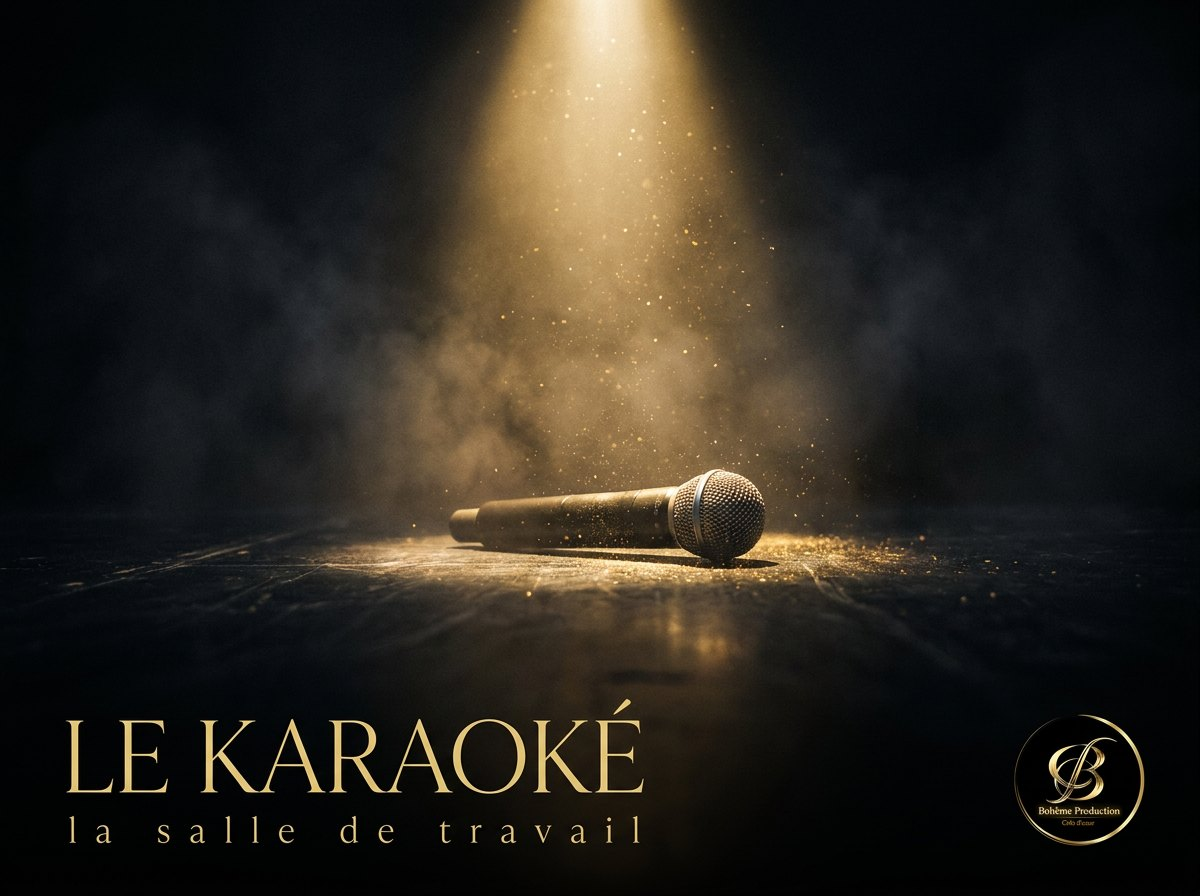
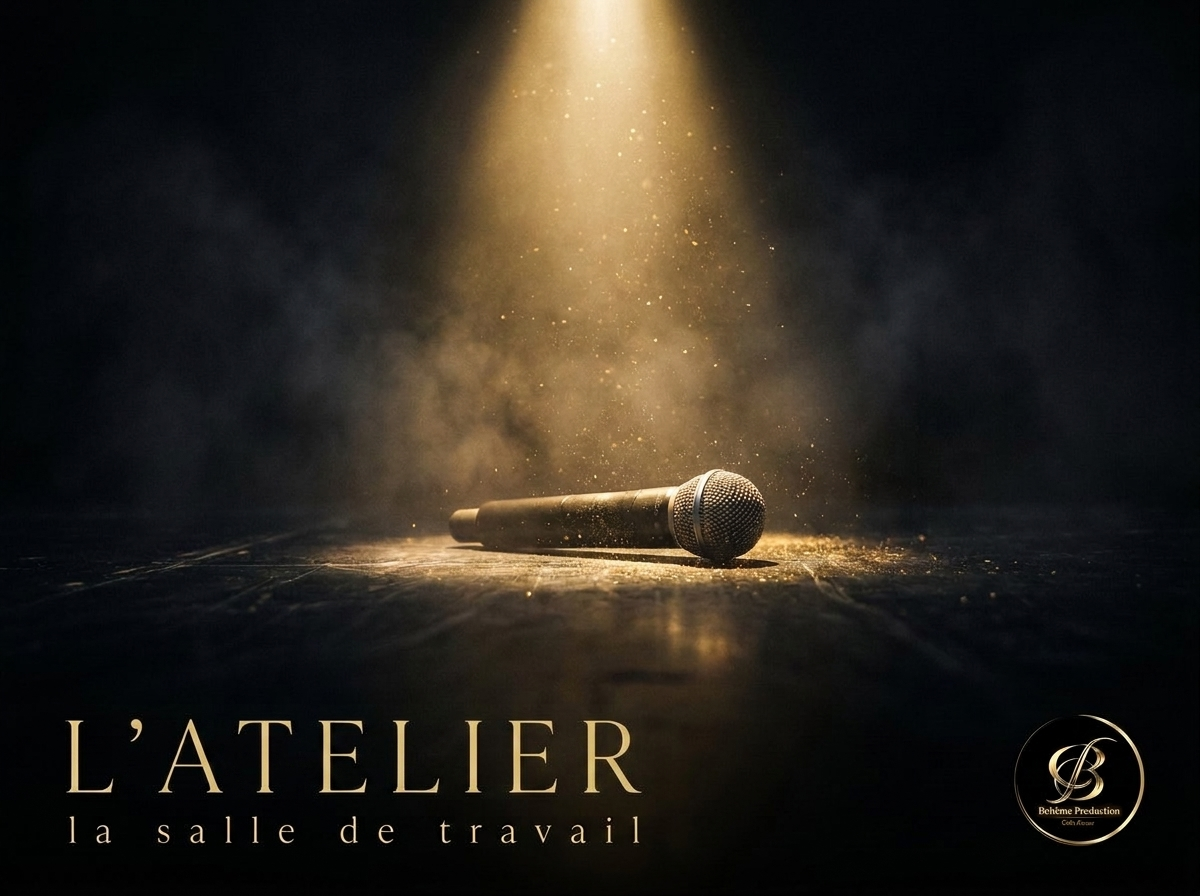
L'affiche de l'atelier porte enfin « L'ATELIER · la salle de travail »
Refaite dans Flow a partir de l'ancienne : seul le titre change, le reste est identique.
⚠ Nano Banana a redessine le petit medaillon en « Beheme Predaction » au lieu de
« Boheme Production ». Illisible sur un telephone, mais faux : le prompt corrige, avec
la consigne qui interdit de re-lettrer le medaillon, est dans
site-images/_a-deposer/LES PROMPTS.

Ce dossier _a-deposer sert desormais d'echange : je donne les prompts, Mickael genere
dans Flow lui-meme et depose l'image sous le nom exact indique. Ca evite le pilotage du
navigateur, qui coute tres cher en jetons.

Changed region(s): [[0.0925, 0.7812, 0.5242, 0.9062], [0.555, 0.5312, 0.6475, 0.5938], [0.8633, 0.8438, 0.925, 0.9062]]

diff --git a/5 - Site web/site-images/_a-deposer/LES PROMPTS — dépose les images ici.md b/5 - Site web/site-images/_a-deposer/LES PROMPTS — dépose les images ici.md
@@ -1,0 +1,84 @@
+# LES IMAGES DU SITE — dépose-les dans ce dossier
+
+**Comment on travaille, à partir de maintenant :**
+
+1. Je te donne **un prompt à la fois**, prêt à coller dans Flow.
+2. Tu le colles, tu génères, tu télécharges l'image.
+3. Tu la déposes **dans ce dossier**, avec **le nom exact** indiqué.
+4. Tu me dis « c'est déposé », et je l'installe dans le site à la bonne place.
+
+**Pourquoi ce nom exact ?** Parce que je remplace le fichier sans avoir à ouvrir
+l'image ni à te poser de question. C'est ce qui coûte le moins.
+
+**Le réglage de Flow, une fois pour toutes :** mode **Image**, **Nano Banana Pro**.
+Le format change selon l'image — il est écrit à chaque fois.
+
+---
+
+## ⚠ Le piège du médaillon
+
+Sur la première image (l'atelier), Nano Banana a réécrit le petit logo doré en
+**« Behème Predaction »** au lieu de « Bohème Production ». Il déforme les tout petits
+textes qu'il croit devoir redessiner.
+
+**Tous les prompts ci-dessous contiennent la phrase qui l'en empêche.** Si ça arrive
+quand même : regarde le médaillon en bas de l'image avant de la garder.
+
+---
+
+# 1 · L'ATELIER — ✅ FAIT
+
+`06-karaoke.jpg` · format **4:3** · elle est déjà installée.
+*(Le médaillon est déformé sur celle-ci. Si tu veux la refaire, reprends le prompt
+ci-dessous en repartant de l'ancienne image que je t'ai gardée dans `_avant-legendes`.)*
+
+```
+Keep this exact image, unchanged. Change ONLY the two lines of golden text at the bottom left: replace "LE KARAOKÉ" with "L'ATELIER", same elegant golden serif capitals, same size, same position, same warm gold glow. Keep the second line exactly as it is: "la salle de travail". Do NOT redraw or re-letter the small circular golden medallion at the bottom right: reproduce it pixel for pixel, exactly as in the source image, with its lettering "Bohème Production" untouched. Everything else stays strictly identical: the spotlight beam, the golden dust, the haze, the microphone on the dark wooden floor and its reflection, the framing, the colours. Photorealistic, cinematic, warm gold on deep black.
+```
+
+---
+
+# 2 · LA PAGE D'ENTRÉE — à refaire
+
+**Nom du fichier : `13-installer.jpg`** · format **9:16** (vertical)
+
+**Pourquoi la refaire :** tu as raison, ce n'est plus « installer ». Cette image sert
+maintenant de fond à la page **« Comment ça marche »** — les explications qu'on lit en
+arrivant. Un téléphone doré au milieu de l'écran, ça ne raconte plus rien.
+
+Et l'ancienne a le même défaut : son médaillon dit **« Bukins Production »**.
+
+```
+A vertical cinematic image, deep black and warm gold, in the same style as a theatre stage at night. An open old book rests on a dark wooden stage floor, lit from above by a single warm spotlight beam. Fine golden dust floats in the light. The pages are blank and glowing softly, as if the text were about to appear. Soft haze in the background, the deep black of an empty theatre, warm reflections on the floor. Lower left, engraved in elegant golden serif capitals with a soft glow: "COMMENT ÇA MARCHE", and just below in thin widely spaced golden lowercase letters: "tout ce qu'il y a dedans". Both lines perfectly spelled in French, with the cedilla on ÇA. Leave the upper two thirds of the image calm and dark, so text can be laid over it. Photorealistic, cinematic, 50mm at f/2, warm gold on deep black. No people, no microphone, no phone.
+```
+
+---
+
+# 3 · LE FOND DES TEXTES — à refaire
+
+**Nom du fichier : `07-textes.jpg`** · format **4:3**
+
+**Pourquoi :** pour que la tuile « Les textes » ait la même élégance que l'atelier —
+et pour que le livre des textes ait enfin un fond à lui.
+
+```
+A cinematic image, deep black and warm gold, same style as a theatre stage at night. A large open book lies on a dark wooden stage floor, seen slightly from above, its pages catching a single warm spotlight beam from above. Golden dust floats in the light. Handwritten-looking lines of text are visible on the pages but unreadable, softly glowing. Soft haze, deep black background, warm reflections on the wood. Lower left, engraved in elegant golden serif capitals with a soft glow: "LES TEXTES", and just below in thin widely spaced golden lowercase letters: "bloc par bloc, en très gros". Both perfectly spelled in French. Photorealistic, cinematic, 50mm at f/2, warm gold on deep black. No people.
+```
+
+---
+
+# 4 · LE FOND DU RENDEZ-VOUS — à refaire
+
+**Nom du fichier : `11-calendrier.jpg`** · format **4:3**
+
+```
+A cinematic image, deep black and warm gold, same style as a theatre stage at night. The empty red velvet seats of a grand theatre auditorium seen from the stage, in deep shadow, lit only by a warm spotlight beam falling from above onto the front row. Fine golden dust floats in the beam. Soft haze, deep black, warm gold highlights on the velvet. Lower left, engraved in elegant golden serif capitals with a soft glow: "LE RENDEZ-VOUS", and just below in thin widely spaced golden lowercase letters: "Cannes, 4 octobre 2026". Both perfectly spelled in French. Photorealistic, cinematic, 35mm at f/2.8, warm gold on deep black. No people.
+```
+
+---
+
+## Après ces quatre-là
+
+On verra ensemble : les vidéos, les documents, « qui chante quoi », la mise en scène.
+Une à la fois, dans le même esprit — même noir, même or, même brume, titre gravé en bas
+à gauche. C'est ce qui fait que le site tient debout comme un seul objet.
